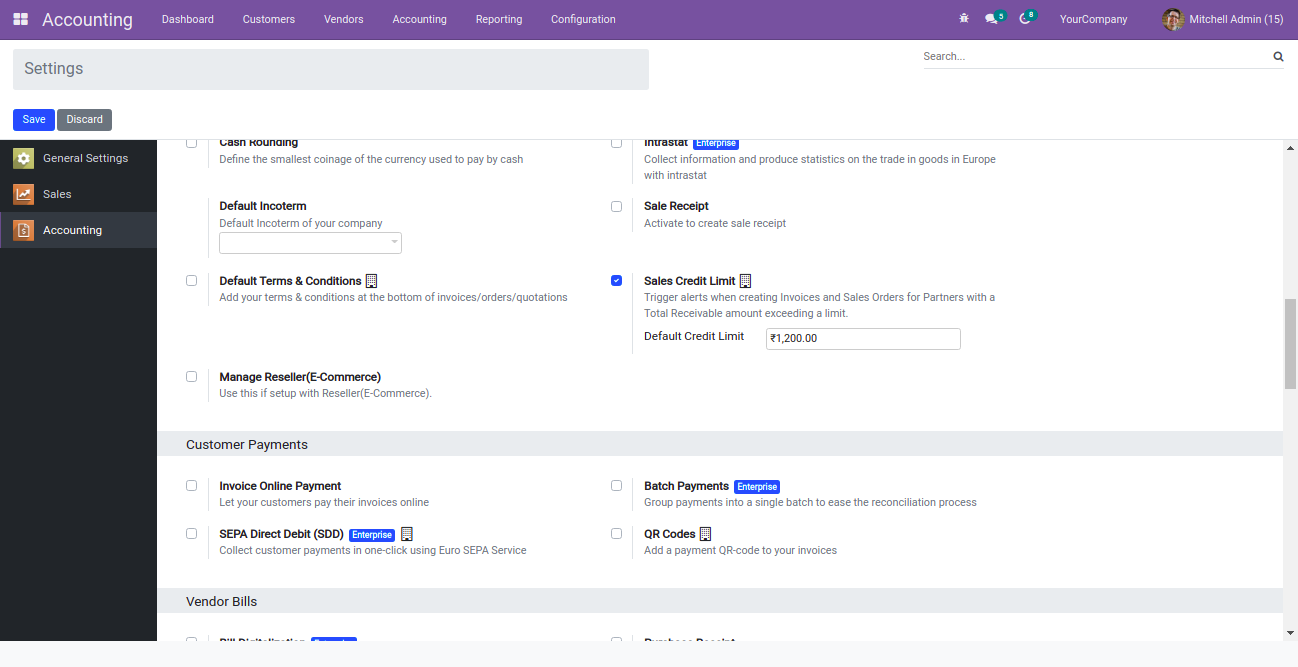
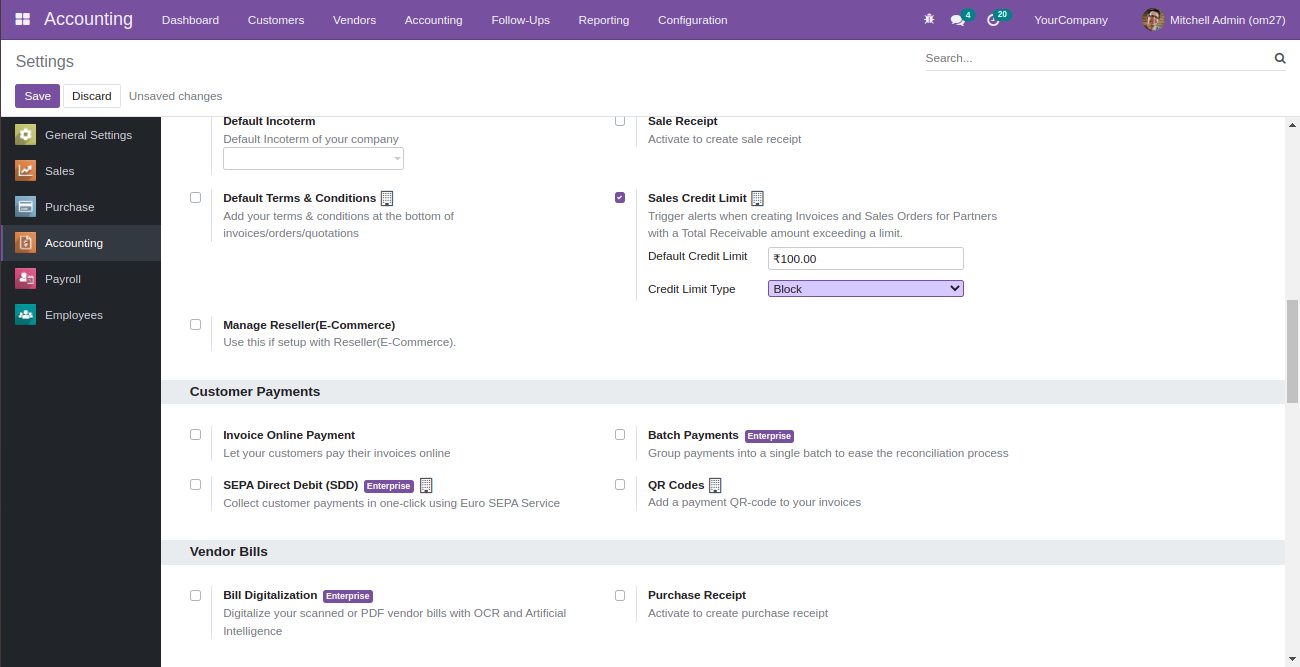
[IMP] credit limit: warning and blocking

diff --git a/om_credit_limit/static/description/index.html b/om_credit_limit/static/description/index.html
@@ -10,15 +10,27 @@
         <div class="oe_demo oe_picture oe_screenshot">
             <img src="settings.png">
         </div>
+        <br/>
     </div>
 </section>
 
-<section class="oe_container oe_dark">
+<section class="oe_container">
     <div class="oe_row oe_spaced">
         <h2 class="oe_slogan" style="color:olive;">Credit limit warning in sales/invoice.</h2>
         <div class="oe_demo oe_picture oe_screenshot">
             <img src="credit_limit.png">
         </div>
+        <br/>
+    </div>
+</section>
+
+<section class="oe_container oe_dark">
+    <div class="oe_row oe_spaced">
+        <h2 class="oe_slogan" style="color:olive;">Credit limit blocking in sales/invoice.</h2>
+        <div class="oe_demo oe_picture oe_screenshot">
+            <img src="credit_limit_block.png">
+        </div>
+        <br/>
     </div>
 </section>
 

diff --git a/om_credit_limit/models/account_move.py b/om_credit_limit/models/account_move.py
@@ -1,4 +1,5 @@
 from odoo import models, fields, api, _
+from odoo.exceptions import ValidationError
 
 
 class AccountMove(models.Model):
@@ -7,6 +8,7 @@ class AccountMove(models.Model):
     partner_credit = fields.Monetary(related='partner_id.commercial_partner_id.credit', readonly=True)
     partner_credit_limit = fields.Monetary(related='partner_id.credit_limit_compute', readonly=True)
     show_partner_credit_warning = fields.Boolean(compute='_compute_show_partner_credit_warning')
+    credit_limit_type = fields.Selection(related='company_id.credit_limit_type')
 
     @api.depends('partner_credit_limit', 'partner_credit',
                  'company_id.account_default_credit_limit', 'company_id.account_credit_limit')
@@ -18,5 +20,13 @@ class AccountMove(models.Model):
             move.show_partner_credit_warning = account_credit_limit and \
                                                ((company_limit and move.partner_credit > company_limit) or \
                                                (partner_limit and move.partner_credit > partner_limit))
+
+    def action_post(self):
+        result = super(AccountMove, self).action_post()
+        for inv in self:
+            if inv.show_partner_credit_warning and inv.credit_limit_type == 'block' and \
+                    inv.partner_credit > inv.partner_credit_limit:
+                raise ValidationError(_("You cannot exceed credit limit !"))
+        return result
 
 

diff --git a/om_credit_limit/models/sale_order.py b/om_credit_limit/models/sale_order.py
@@ -1,4 +1,5 @@
 from odoo import models, fields, api, _
+from odoo.exceptions import ValidationError
 
 
 class SaleOrder(models.Model):
@@ -7,6 +8,7 @@ class SaleOrder(models.Model):
     partner_credit = fields.Monetary(related='partner_id.commercial_partner_id.credit', readonly=True)
     partner_credit_limit = fields.Monetary(related='partner_id.credit_limit_compute', readonly=True)
     show_partner_credit_warning = fields.Boolean(compute='_compute_show_partner_credit_warning')
+    credit_limit_type = fields.Selection(related='company_id.credit_limit_type')
 
     @api.depends('partner_credit_limit', 'partner_credit',
                  'company_id.account_default_credit_limit', 'company_id.account_credit_limit')
@@ -18,5 +20,14 @@ class SaleOrder(models.Model):
             order.show_partner_credit_warning = account_credit_limit and \
                                                 ((company_limit and order.partner_credit > company_limit) or \
                                                 (partner_limit and order.partner_credit > partner_limit))
+
+    def action_confirm(self):
+        result = super(SaleOrder, self).action_confirm()
+        for so in self:
+            if so.show_partner_credit_warning and so.credit_limit_type == 'block' and \
+                    so.partner_credit > so.partner_credit_limit:
+                raise ValidationError(_("You cannot exceed credit limit !"))
+        return result
+
 
 

diff --git a/om_credit_limit/__manifest__.py b/om_credit_limit/__manifest__.py
@@ -1,10 +1,10 @@
 {
-    'name': 'Odoo 15 Credit Limit',
+    'name': 'Customer Credit Limit With Warning and Blocking',
     'author': 'Odoo Mates',
     'category': 'Accounting',
-    'version': '2.1.0',
-    'description': """Customer Credit Limit""",
-    'summary': """Customer Credit Limit""",
+    'version': '3.0.0',
+    'description': """Customer Credit Limit, Credit Limit With Warning and Blocking, Customer Credit Limit With Warning and Blocking""",
+    'summary': """Customer Credit Limit, Credit Limit With Warning and Blocking, Customer Credit Limit With Warning and Blocking""",
     'sequence': 11,
     'website': 'https://www.odoomates.tech',
     'depends': ['account', 'sale'],

diff --git a/om_credit_limit/models/res_config_settings.py b/om_credit_limit/models/res_config_settings.py
@@ -10,3 +10,6 @@ class ResConfigSettings(models.TransientModel):
     account_default_credit_limit = fields.Monetary(
         string="Default Credit Limit", related="company_id.account_default_credit_limit", readonly=False,
         help="A limit of zero means no limit by default.")
+    credit_limit_type = fields.Selection([('warning', 'Warning'), ('block', 'Block')],
+                                         string="Credit Limit Type", related="company_id.credit_limit_type",
+                                         readonly=False)

diff --git a/om_credit_limit/models/res_company.py b/om_credit_limit/models/res_company.py
@@ -6,3 +6,4 @@ class ResCompany(models.Model):
 
     account_credit_limit = fields.Boolean()
     account_default_credit_limit = fields.Monetary()
+    credit_limit_type = fields.Selection([('warning', 'Warning'), ('block', 'Block')])

diff --git a/om_credit_limit/doc/RELEASE_NOTES.md b/om_credit_limit/doc/RELEASE_NOTES.md
@@ -1,6 +1,11 @@
 ## Module <om_credit_limit>
 
 #### 15.04.2022
+#### Version 15.0.3.0.0
+##### IMP
+- warning and blocking configuration
+
+#### 15.04.2022
 #### Version 15.0.2.1.0
 ##### IMP
 - turkish translation
